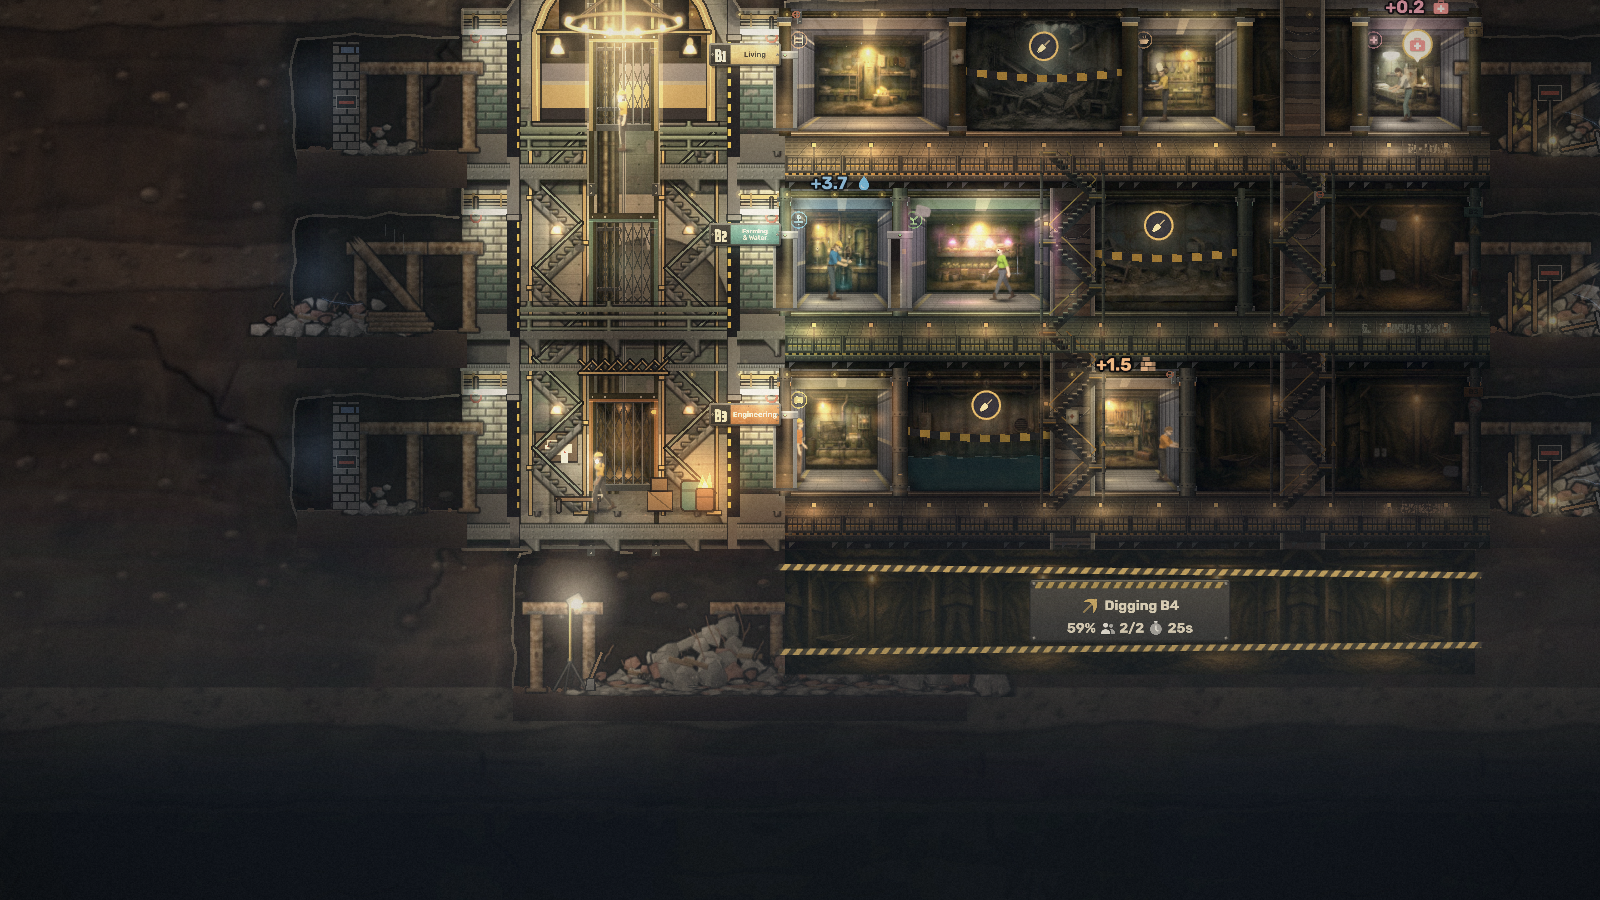
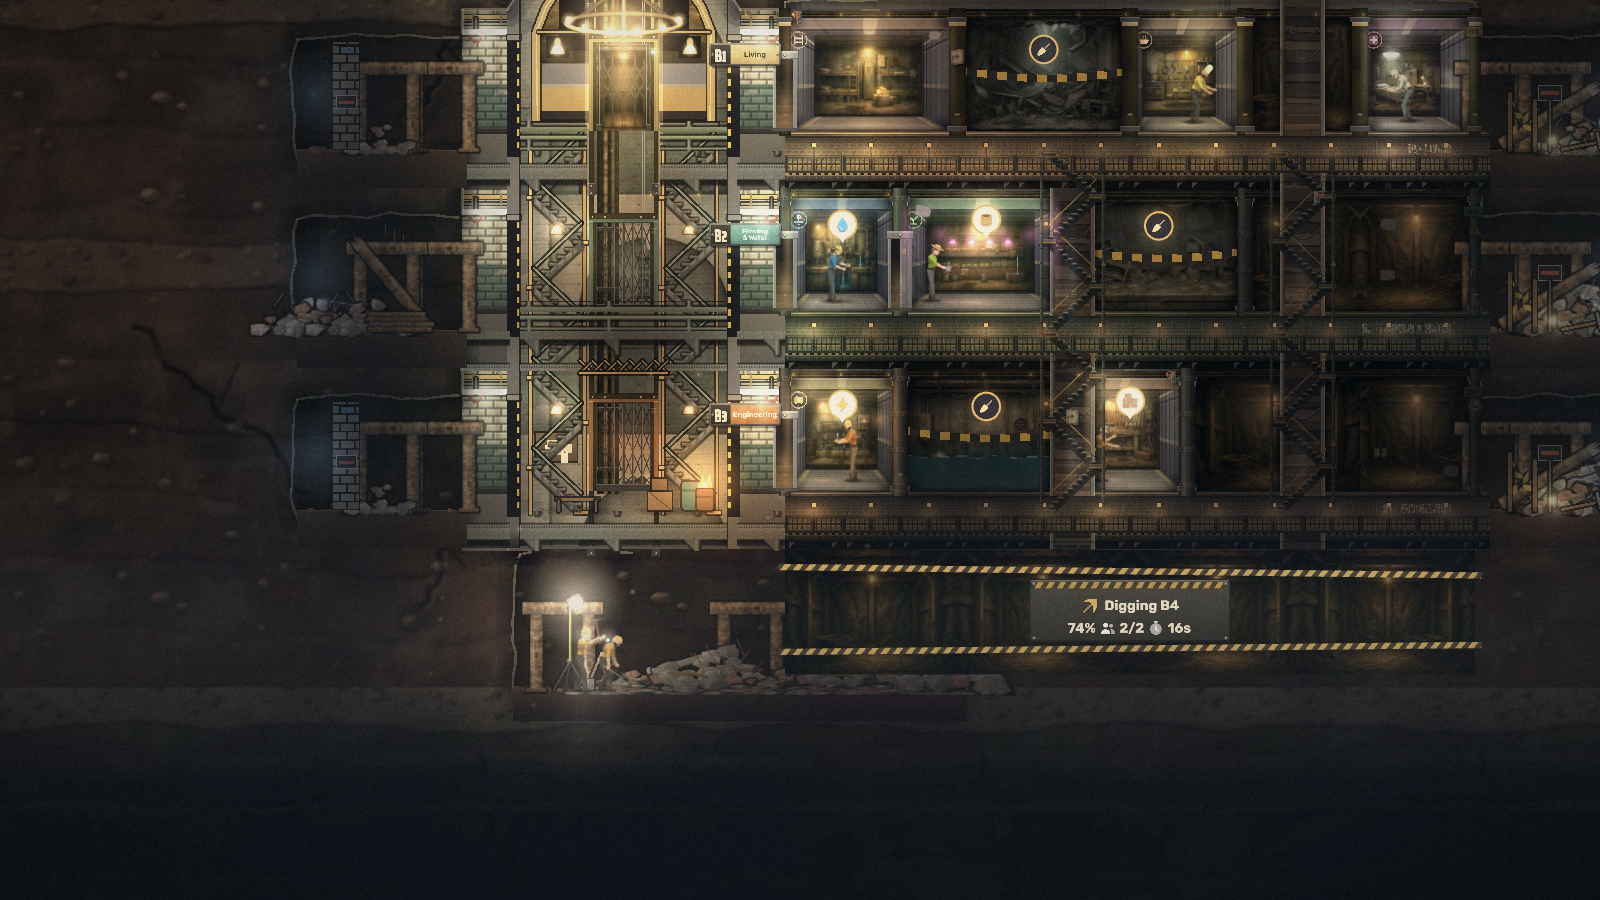
docs(world): round 1 fixes, perf re-measure and refreshed C-hub / C-dig

diff --git a/store/world-redesign/C-review.md b/store/world-redesign/C-review.md
@@ -1,0 +1,67 @@
+# Stage C review (round 1)
+
+Reviewer verdict: **BLOCK**. One blocker; fixing it makes this APPROVE WITH FIXES.
+
+## What holds
+- `tsc` and `check:full` pass. The migrations v6→v8 and v7→v8 pass on all 12 saves. project-test, city-layout, routes, rooms, openings, daily and foreman all pass.
+- Production bundle: `cityScenario` is not in it.
+- No `console.log` or `debugger` statements.
+- Nothing under `src/ui`, `src/styles` or `src/i18n` was touched.
+- Game logic is unchanged: `CitySystem` writes only `state.city` and has no tick.
+- Classic formulas are identical, and every city path sits behind `CITY` or `PROJECTION`.
+- The migration is idempotent and the layout is untouched.
+- Filters use resolution `'inherit'`, and render textures are destroyed.
+
+## Findings
+
+| Sev | Where | Issue | Fix |
+|---|---|---|---|
+| BLOCKER | `src/dev/cityScenario.ts:103` | The guard only checks that the slot is non-empty. `SaveManager.slotSuffix()` falls back to the main key when the slot fails `/^[a-z0-9_-]{1,20}$/i`, so the scenario could overwrite `lastbunker_auto`. | Use the same validation (export `hasSlot()`). |
+| MAJOR | `src/world/render/shell/*` | About 35 hard-coded colours and sizes. | Move them to tokens. |
+| MINOR | `walkers.ts` 631/639/652, `people.ts` 942 | Literal rim colours and offset. | Move to `LIFE` tokens. |
+| MINOR | `postfx.ts:18` | `CITY_NIGHT_GRADE` is outside the tokens. | Move to `tokensRender`. |
+| MINOR | `BunkerRenderer.ts:1820` | `destroy()` doesn't tear down the city host or the light sink. | Tear both down. |
+| MINOR | `BunkerRenderer.ts:14` | City code is in the main chunk. | Load it dynamically when `CITY`. |
+| MINOR | `AudioEngine.ts` 709/719 | City beds are never released (up to about 33 MB). | Release when idle, or render mono. |
+| MINOR | `routes.ts` 135/142 | `stairColumnX` uses the frame of `lo`. | Assert the same stratum. |
+| MINOR | `fog.ts:297`, `layers.ts` | Small allocations on every redraw. | Hoist them. |
+| MINOR | `walkers.ts` 906/975 | Dead parameter; `Map` allocation; the cap can be exceeded. | Clean up. |
+| MINOR | `perfFx.ts:14` | A `const` sits between imports. | Move it. |
+| MINOR | `routes-test.ts` 173/188/221 | `slotX(0,` literals without a reason comment. | Add the comments. |
+
+Note: `?city` also works in production builds. This is intended until M1.
+
+## Round 1 fixes (fixer, 2026-10-15)
+
+| Sev | Finding | Fix | Commit |
+|---|---|---|---|
+| BLOCKER | `cityScenario` slot guard | `SaveManager` exports `hasValidSlot()`, the same dev-build and `/^[a-z0-9_-]{1,20}$/i` test the save keys use. The scenario refuses without it. | `5c82d90` |
+| MAJOR | ~35 literals in `shell/*` | About 45 values moved, with the same values, so the same pixels: a new `PROPS` block in `tokens.ts`; `CITY.hub.vaultPitch`, `vaultTileW`, `deckH` and `railH`; `CITY.layout.cavernSlabPad` and `edgeFloorDepth`; `ROCK_RENDER` in `tokensRender.ts`. No hex colour other than black or white is left in `shell/*`. | `ae76e84` |
+| MINOR | Rim colours and offset in `walkers` / `people` | The rim uses `LIGHT.presets.headlamp` and `lantern` colours, the offset is `LIFE.selfLight.dy`, and the carried prop uses `LIFE.lantern.prop`. | `8fe9e63` |
+| MINOR | `CITY_NIGHT_GRADE` in `postfx` | Moved to `tokensRender.ts`. | `ea0ef3b` |
+| MINOR | `destroy()` leaves the city behind | `destroy()` clears the light sink and destroys the `CityHost` before the app. | `378009f` |
+| MINOR | City code in the main chunk | `CityHost` and `installCityWorld` are dynamic imports in `mountCity`, awaited in `init`. They build as two chunks of about 17 KB gzip each. | `378009f` |
+| MINOR | City beds never released | A bed or crowd loop that stays silent for `AUDIO.bedReleaseAfter` (30 s) is stopped and dropped, and rendered again when wanted. | `e14012d` |
+| MINOR | `stairColumnX` uses `lo`'s frame | Returns NaN when `lo` and `hi` do not share a frame. That never happens in classic. | `2bffb5f` |
+| MINOR | Allocations per redraw in `fog` / `layers` | The clear colour and the bake list are hoisted. | `dc3a150` |
+| MINOR | `walkers`: dead parameter, `Map`, cap | `retarget` loses its `state` parameter. The view `Map` is reused. A redirect that would exceed `MAX_WALKERS` lets the old placement apply. | `03656fc` |
+| MINOR | `perfFx`: `const` between imports | Imports come first. | `ea0ef3b` |
+| MINOR | `routes-test` `slotX(0,` literals | Each has a `// floor-0:` reason, and lint has no floor-0 warnings left. | `2bffb5f` |
+
+**Also in this round**
+- **Idle people** (`70861c7`):
+  - No idle spot within `LIFE.idle.edgeClear` (24 u) of an edge tunnel. The slice's loiterer used to stand at the west tunnel mouth.
+  - Corridor weight 2 → 1.
+- **slice-dig** (`70861c7`, test `4bd2f76`):
+  - The dig now starts at 10 %, so the crew works at the face from about 53 % on.
+  - Before, the dig ended a few seconds after the crew arrived.
+- **Draw calls** (`a47ecd3`, `43b6744`):
+  - The shell's large Graphics now batch, and the shell holders are their own render groups.
+  - Fresh game at Medium: −7 draw calls against classic on desktop and −11 on phone; it was +16 / +12. The table is in `C-render-notes.md`, "Round 1 fixes".
+
+**Gates**
+- `npm run check:full`: green.
+- `npx tsc --noEmit`: clean.
+- `vite build` to the scratchpad: passes, and `cityScenario` is not in the bundle.
+- Lint: no floor-0 warnings.
+- Classic compare: 1.45 % mean / 4.04 % max, against a noise floor of 1.84 % / 4.52 %.

diff --git a/store/world-redesign/C-render-notes.md b/store/world-redesign/C-render-notes.md
@@ -576,3 +576,48 @@ All at High, 1600x900:
 - `C-dig`: slice-dig at 59 %, with the crew on the hub stairs.
 
 `C-phone-hub` is the mobile preset, 375x812@2.
+
+## Round 1 fixes: perf re-measure (fixer, world-redesign, 2026-10-15)
+
+Same method as Phase 2c: production build (`vite build` into the scratchpad), headless Chrome on the iGPU, `ct-frames7.mjs` (A2 `frames.mjs` at the same absolute zoom: overview 0.8 desktop, 0.62 phone). Classic rows come from the full run at `a47ecd3`; city rows were re-run at `43b6744`, which only touches city code. Baseline `6a7ff3b` (before round 1) was re-measured in the same session for the phone rows, because GPU MB drifts between sessions.
+
+### What changed for the renderer
+- **Shell Graphics batch** (`cityWiring.forceBatch`). Pixi only batches a Graphics under 200 vertices. The edge chokes, hub front, dig front and pockets are 300–5000 vertices each, so each drew alone and broke the batch around it. Their contexts now use `batchMode: 'batch'`.
+- **Shell holders are render groups** (`cityHost`). With the vertices batched, the lit group's per-frame draw-list rebuild copied them every frame: e55 phone idle draw went 10.1 → 14.1 ms. In their own groups the copy happens only when the shell changes.
+- The city renderer now loads as its own chunks: `cityHost` and `cityWiring`, about 17 KB gzip each.
+
+### Medium
+
+| Medium | Draw calls, classic → city | GPU MB, classic → city | Raw frame med ms, classic → city | Idle CPU draw med ms, classic → city |
+|---|---|---|---|---|
+| fresh desktop | 204 → **197 (−7)** | 173 → 199 | 3.4 → 6.3 | 2.3 → 3.4 |
+| e55 desktop | 632 → **579** | 256 → 360 | 17.1 → 22.7 | 5.7 → 10.6 |
+| fresh phone | 205 → **194 (−11)** | 384 → 411 | 2.6 → 6.9 | 2.4 → 2.7 |
+| e55 phone | 644 → **538** | 389 → **372** | 18.0 → 20.0 | 6.9 → 9.1 |
+
+City before round 1 (`6a7ff3b`), same session, phone:
+- fresh: 216 calls, 398 MB, 5.5 ms, idle draw 2.8 ms.
+- e55: 559 calls, 505 MB, 18.4 ms, idle draw 10.1 ms.
+
+### High
+
+| High | Draw calls, classic → city | GPU MB, classic → city | Raw frame med ms, classic → city |
+|---|---|---|---|
+| fresh desktop | 208 → 238 | 151 → 174 | 30.4 → 27.7 |
+| e55 desktop | 650 → 656 | 251 → 315 | 41.0 → 40.5 |
+| fresh phone | 208 → 219 | 384 → 343 | 3.9 → 7.6 |
+| e55 phone | 665 → 583 | 376 → 351 | 20.4 → 22.2 |
+
+### Budgets at Medium
+- **Fresh-game draw calls: met.** The budget is classic + 10. The city is now below classic: −7 on desktop, −11 on phone. Before this round it was +16 / +12.
+- **Phone memory:** the budget is classic + 20 MB.
+  - fresh: three runs of this build gave 400, 397 and 411 MB against classic 384, so +13 to +27. Baseline `6a7ff3b` gave 398 MB in the same session.
+  - None of this round's changes allocate textures. The spread is lazy art loading in the first sweep. Treat it as at the edge of the budget, not over it, and re-check on a device.
+  - e55: −17 MB.
+- **Frame time:** the "raw full" median is bimodal on this iGPU. Fresh classic often reads below its own Pixi-only time, so read it next to the idle CPU draw column. Against the same-session baseline, city phone idle draw is 2.8 → 2.7 ms fresh and 10.1 → 9.1 ms e55. The full-frame average at e55 is 18.5 → 19.8 ms.
+
+Classic compare: `tools/compare/run.mjs` on saves-v6 e30 and c, 390x844@2x, 17 shots.
+- Baseline `6a7ff3b` against itself (noise floor): 1.84 % mean, 4.52 % max.
+- Baseline against round 1: **1.45 % mean, 4.04 % max.** Classic is unchanged.
+
+Shots refreshed: `C-hub` (slice; the loiterer is on the B1 balcony, not in the west tunnel) and `C-dig` (slice-dig; both diggers at the face, headlamps on, dig at 74 %).
